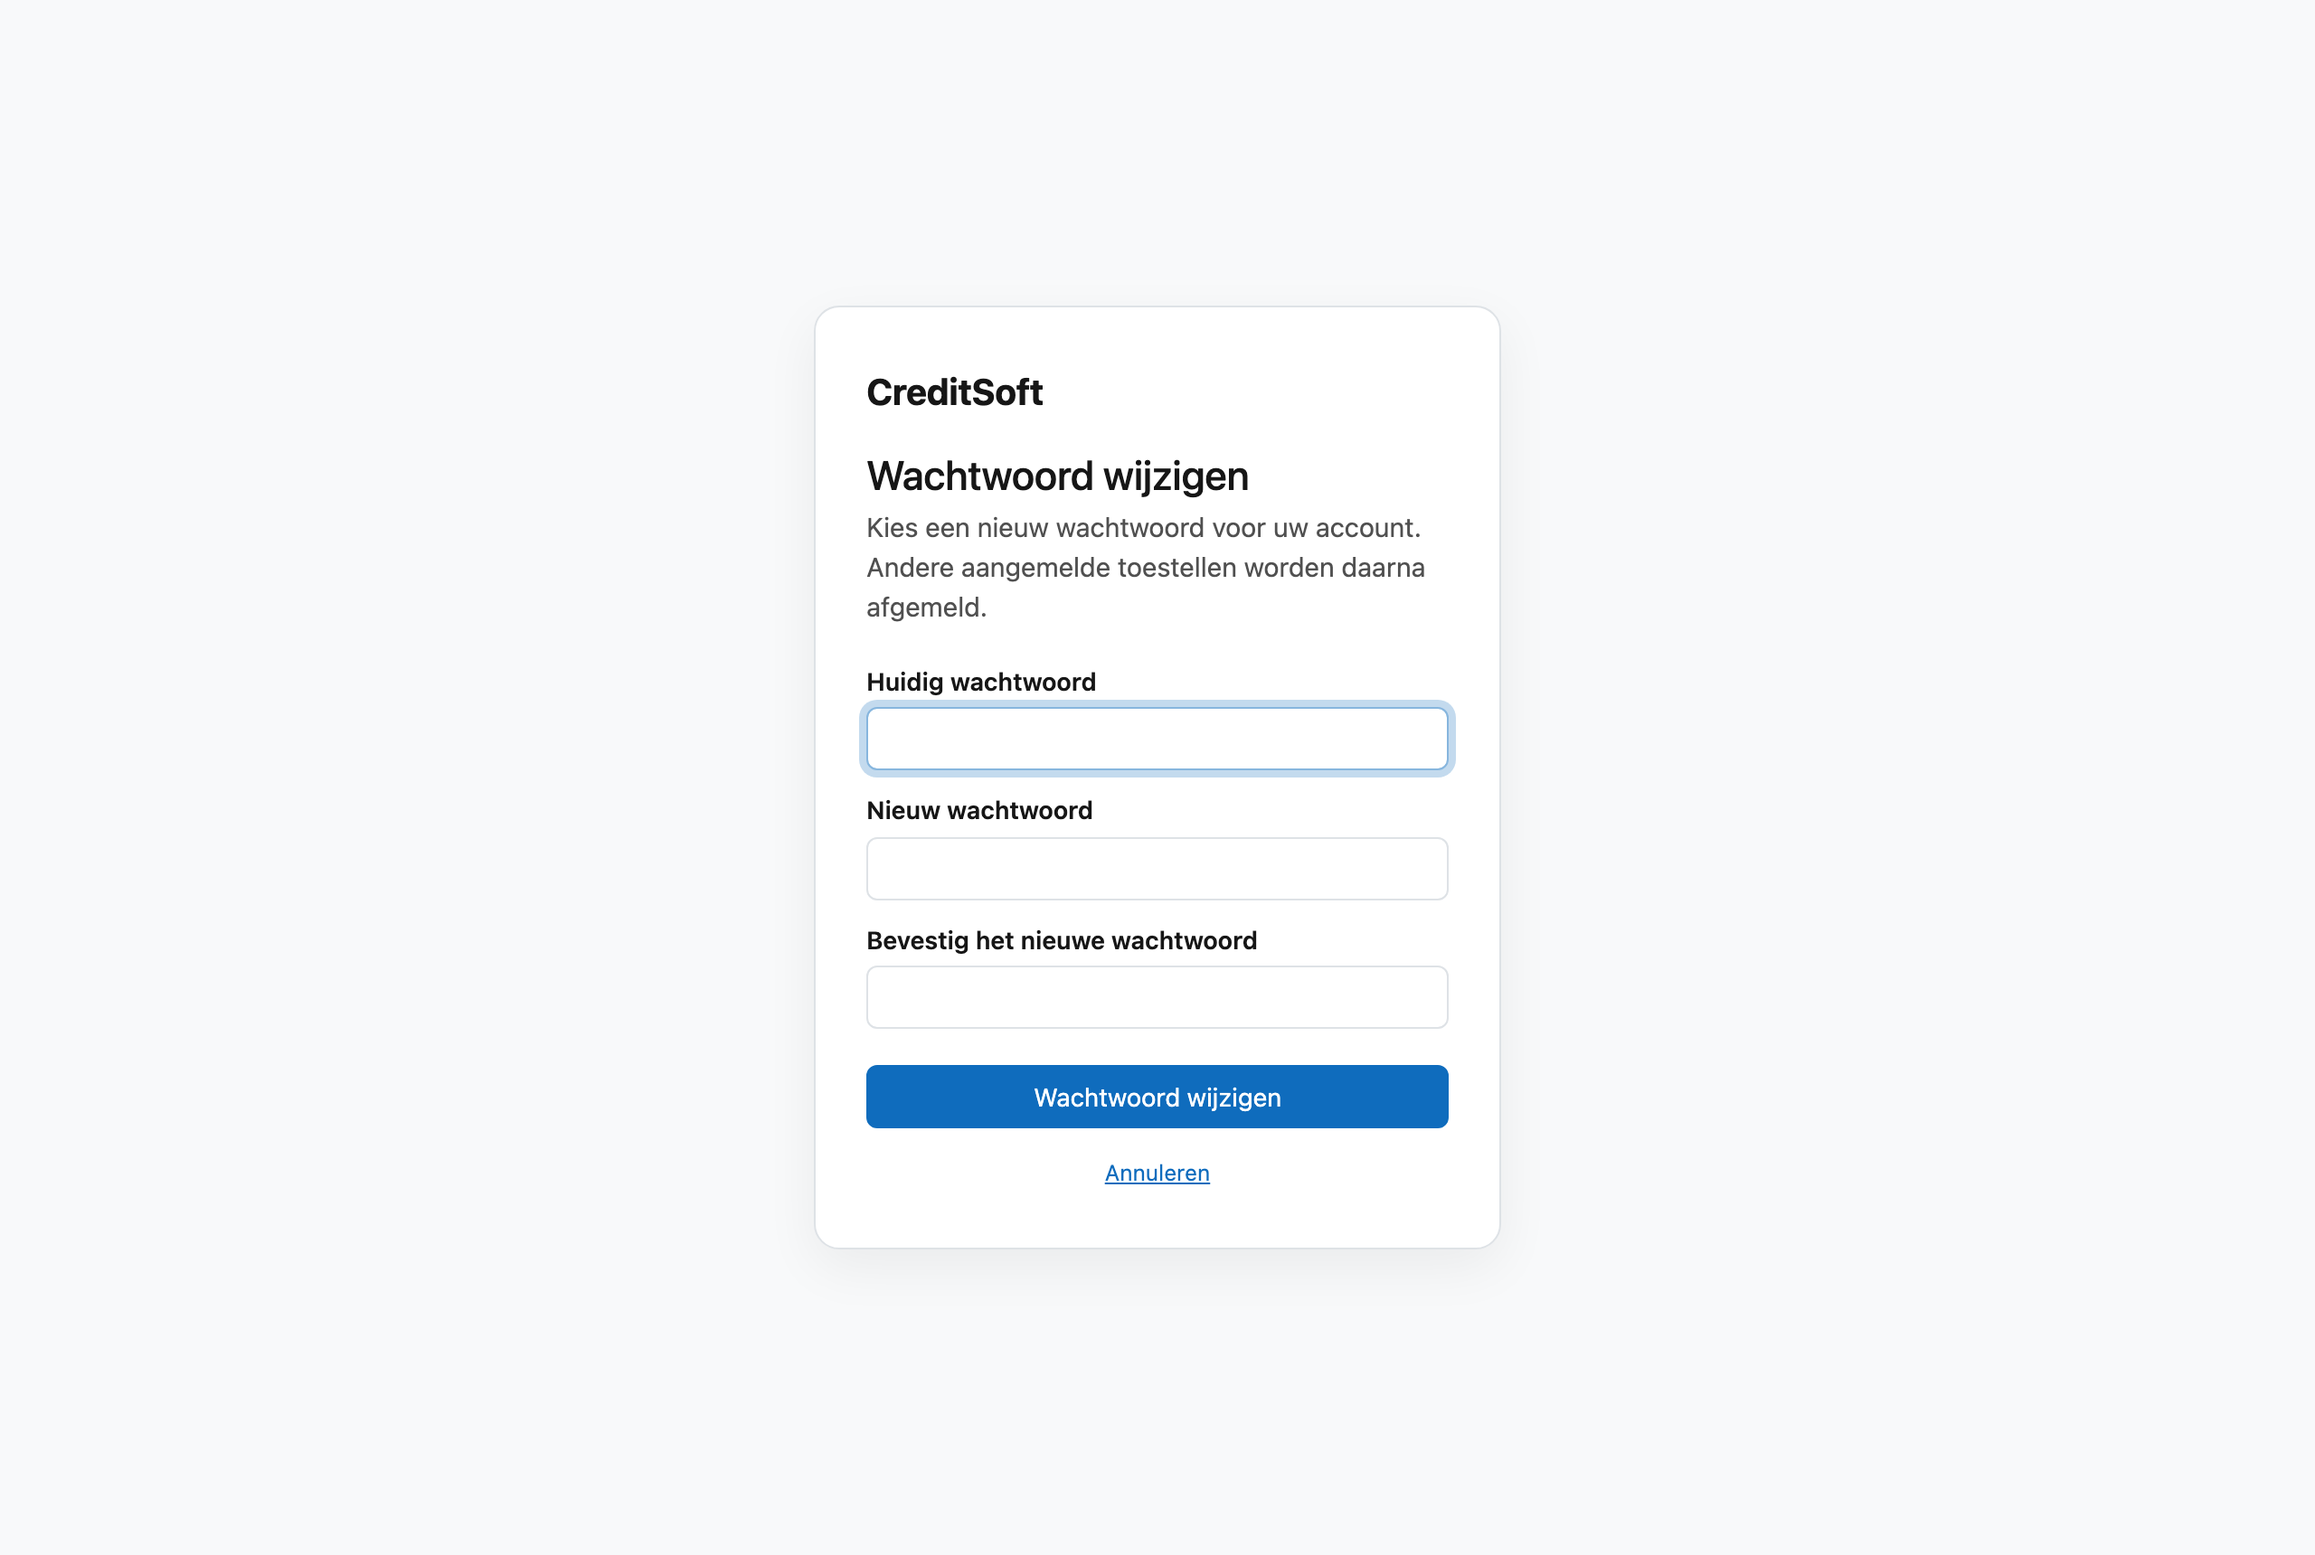
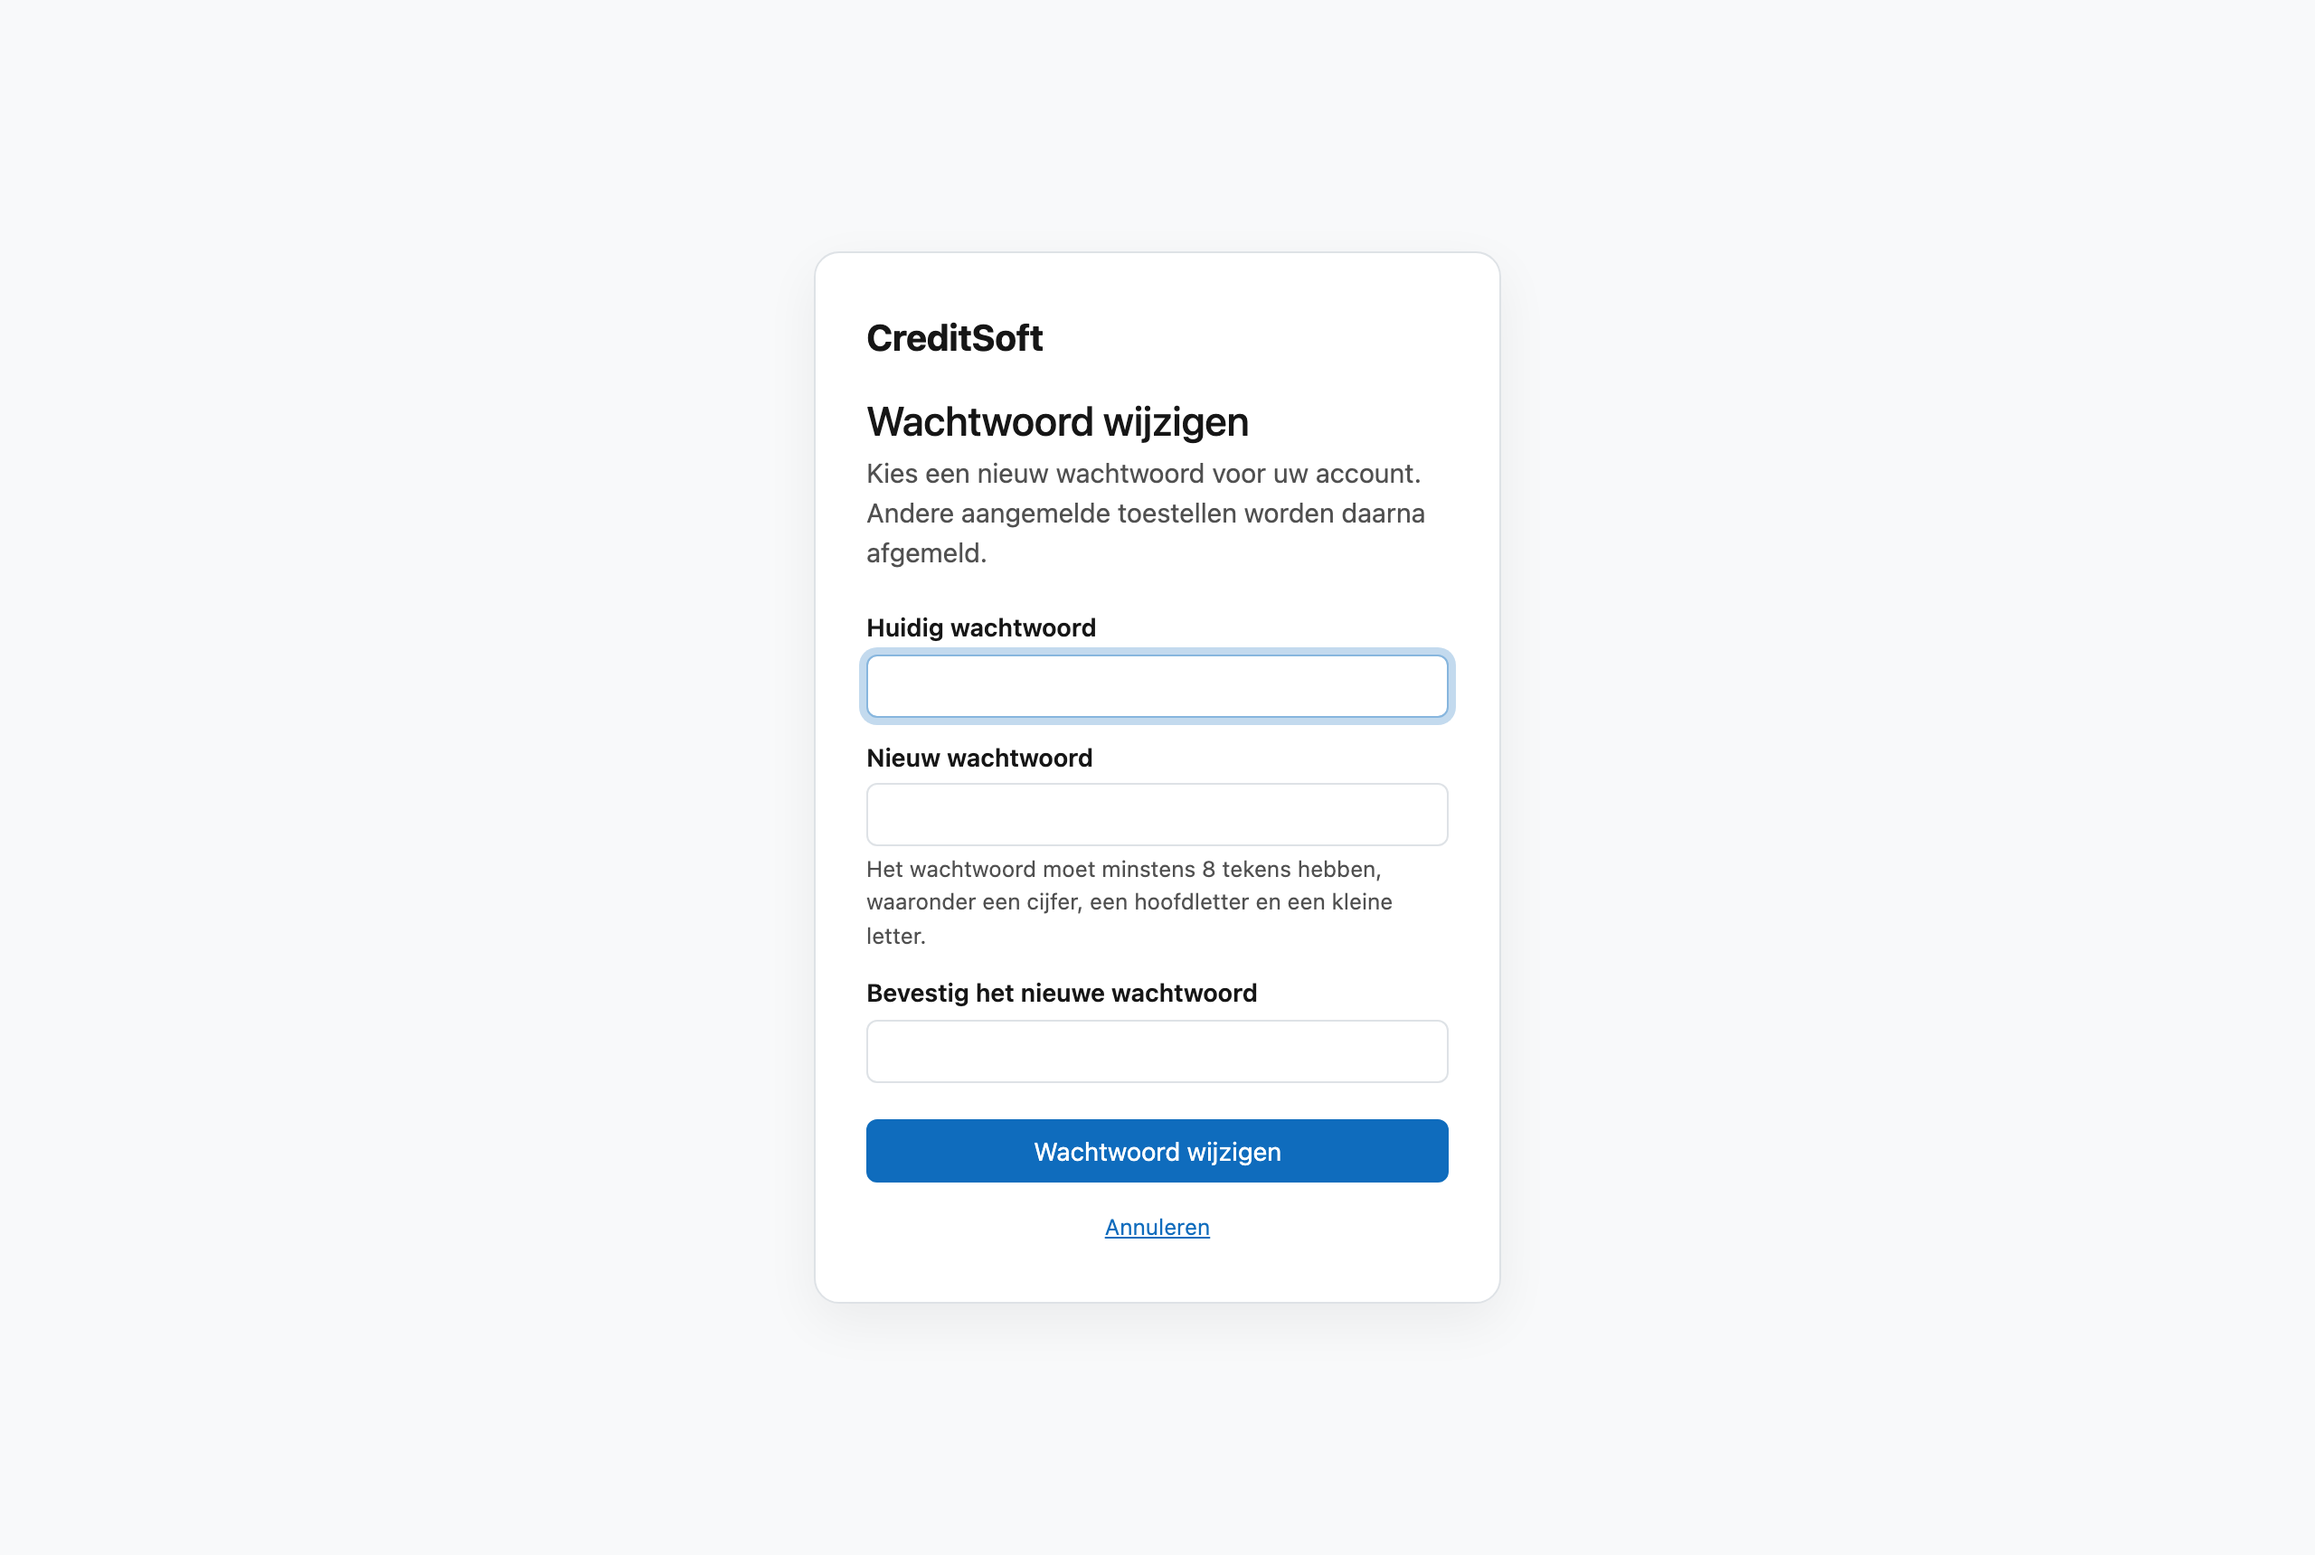
Wachtwoord wijzigen: de regel onder Nieuw wachtwoord (AppKit 0.429.0, app 1.143.9)
Tekst en alt-tekst NL+FR vermelden de regel; wachtwoord(-fr).png hernomen op app cc05de26 (--losse-klok: geen
datum op dit scherm), elk mét zijn belofte op het scherm.

Changed region(s): [[0.3438, 0.1849, 0.6562, 0.6471], [0.375, 0.6779, 0.625, 0.8012]]

diff --git a/docs/getting-started/wachtwoord.fr.md b/docs/getting-started/wachtwoord.fr.md
@@ -3,7 +3,7 @@
 Vous changez votre mot de passe sur un seul écran, comportant trois champs : votre mot de passe **actuel**, le
 **nouveau**, et ce nouveau mot de passe **une seconde fois** en confirmation.
 
-![L'écran Changer le mot de passe avec trois champs vides les uns sous les autres : Mot de passe actuel, Nouveau mot de passe et Confirmez le nouveau mot de passe, suivis du bouton Changer le mot de passe et du lien Annuler.](../images/wachtwoord-fr.png "L'écran Changer le mot de passe")
+![L'écran Changer le mot de passe avec trois champs vides les uns sous les autres : Mot de passe actuel, Nouveau mot de passe avec en dessous la règle à respecter, et Confirmez le nouveau mot de passe, suivis du bouton Changer le mot de passe et du lien Annuler.](../images/wachtwoord-fr.png "L'écran Changer le mot de passe")
 
 ## Quand vous le rencontrez
 
@@ -16,6 +16,10 @@ Vous changez votre mot de passe sur un seul écran, comportant trois champs : vo
   **Changer le mot de passe**.
 
 ## Le remplissage
+
+Sous **Nouveau mot de passe** figurent les règles à respecter : au moins **8 caractères**, dont un **chiffre**,
+une **lettre majuscule** et une **lettre minuscule**. Si le mot de passe ne convient pas, CreditSoft vous dit
+pourquoi.
 
 Le nouveau mot de passe et sa confirmation doivent être **exactement identiques** ; s'ils diffèrent, CreditSoft
 vous le signale et rien ne change. Ressaisissez-les alors — vous ne perdez rien.

diff --git a/docs/getting-started/wachtwoord.md b/docs/getting-started/wachtwoord.md
@@ -3,7 +3,7 @@
 Uw wachtwoord verandert u op één scherm, met drie velden: uw **huidige** wachtwoord, het **nieuwe**, en dat
 nieuwe **nog een keer** ter bevestiging.
 
-![Het scherm Wachtwoord wijzigen met drie lege velden onder elkaar: Huidig wachtwoord, Nieuw wachtwoord en Bevestig het nieuwe wachtwoord, met daaronder de knop Wachtwoord wijzigen en de link Annuleren.](../images/wachtwoord.png "Het scherm Wachtwoord wijzigen")
+![Het scherm Wachtwoord wijzigen met drie lege velden onder elkaar: Huidig wachtwoord, Nieuw wachtwoord met daaronder de regel waaraan het moet voldoen, en Bevestig het nieuwe wachtwoord, met daaronder de knop Wachtwoord wijzigen en de link Annuleren.](../images/wachtwoord.png "Het scherm Wachtwoord wijzigen")
 
 ## Wanneer u het te zien krijgt
 
@@ -13,6 +13,9 @@ nieuwe **nog een keer** ter bevestiging.
 - **Wanneer u het zelf wil veranderen.** Dat kan altijd: open uw avatar rechtsboven → **Alle voorkeuren…** en klik onderaan bij *Beveiliging* op **Wachtwoord wijzigen**.
 
 ## Het invullen
+
+Onder **Nieuw wachtwoord** staat aan welke regels het moet voldoen: minstens **8 tekens**, waaronder een
+**cijfer**, een **hoofdletter** en een **kleine letter**. Voldoet het toch niet, dan zegt CreditSoft waarom.
 
 Het nieuwe wachtwoord en de bevestiging moeten **exact gelijk** zijn; verschillen ze, dan zegt CreditSoft dat
 en verandert er niets. Vul daarna opnieuw in — u verliest niets.
